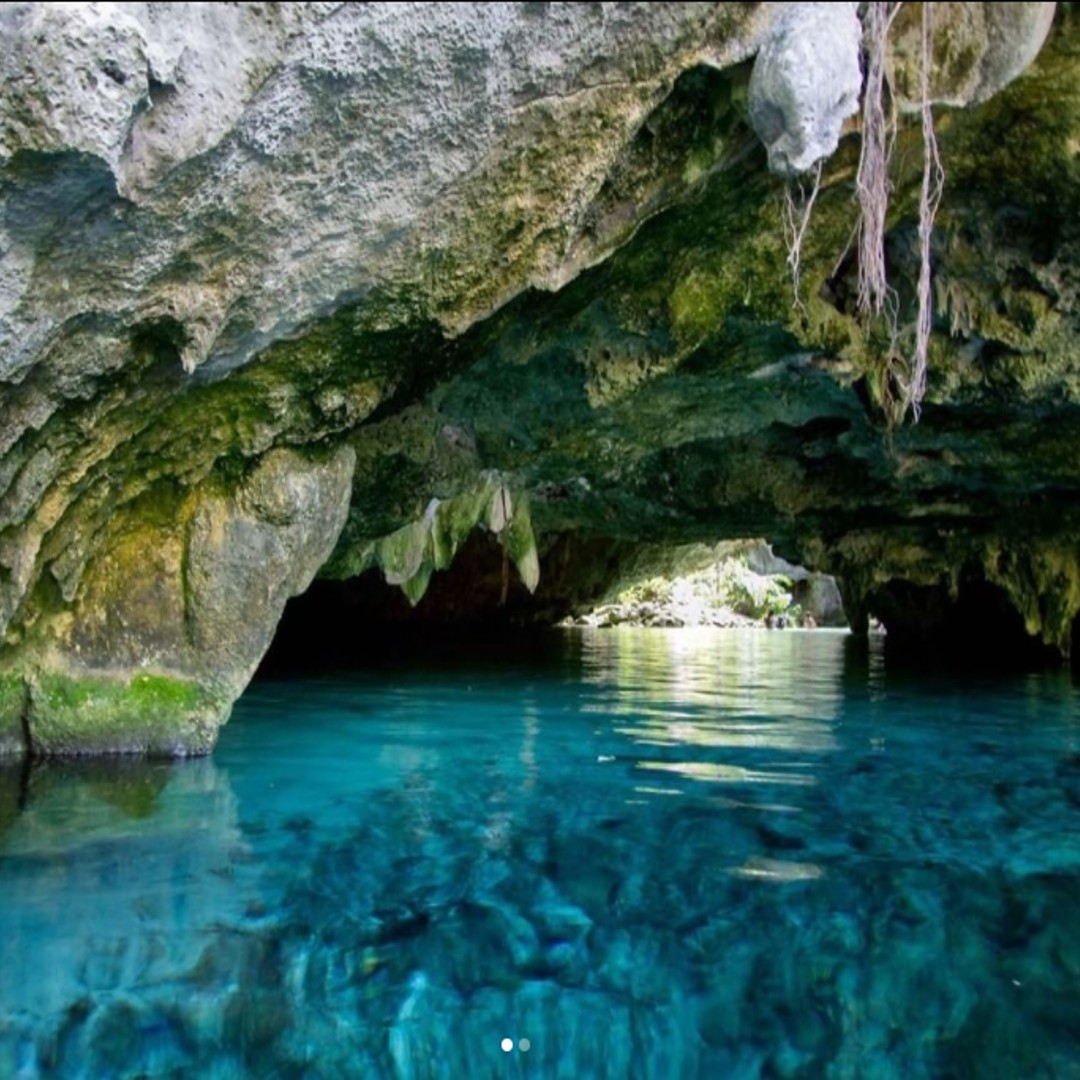
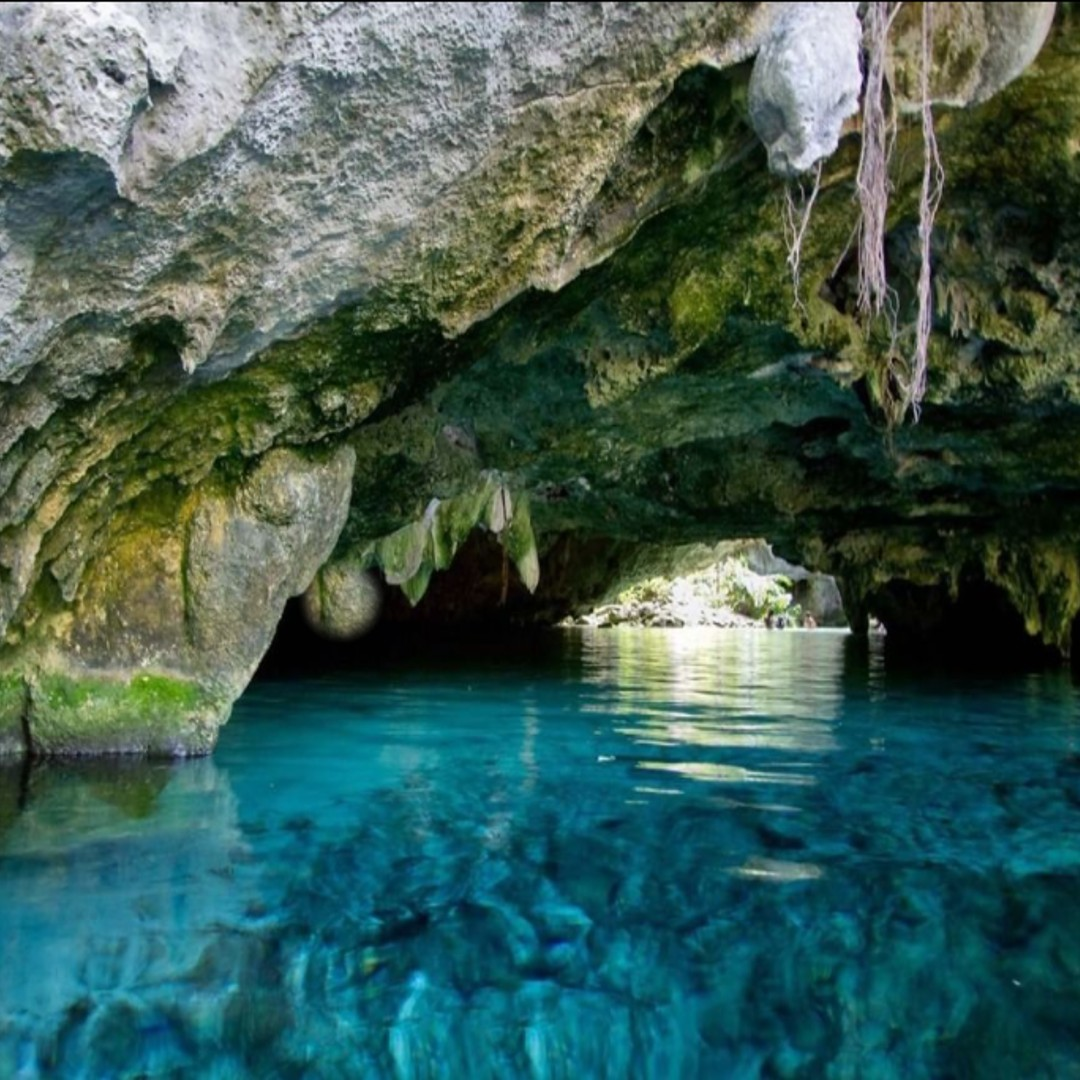
Edit and box shadow

Changed region(s): [[0.275, 0.5194, 0.3667, 0.6111], [0.4583, 0.9472, 0.55, 1.0]]

diff --git a/chamber/css/large.css b/chamber/css/large.css
@@ -125,4 +125,8 @@
         padding: 0;
         margin: 1em;
     }
+
+    .discover-grid img:hover {
+        box-shadow: 0 0 50px #5b5d63;
+    }
 }
